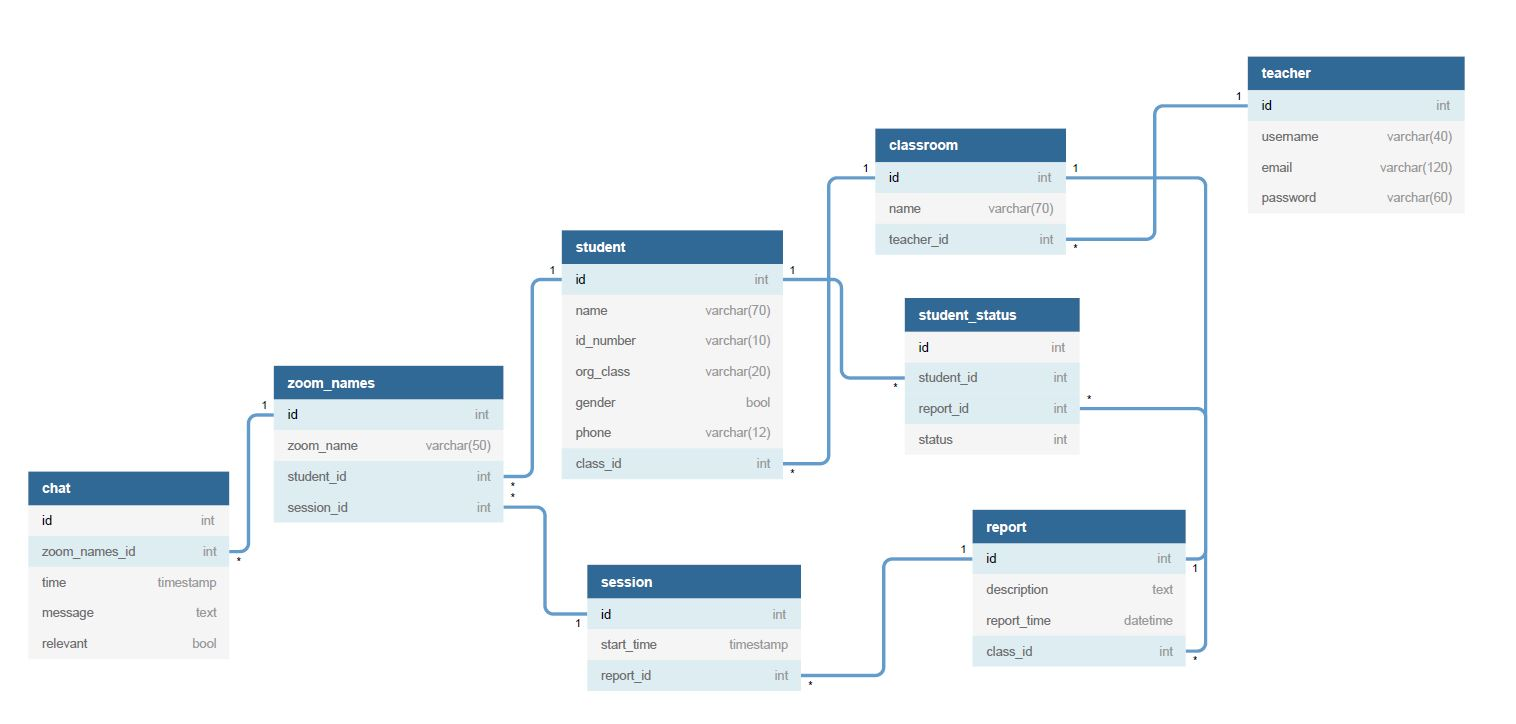
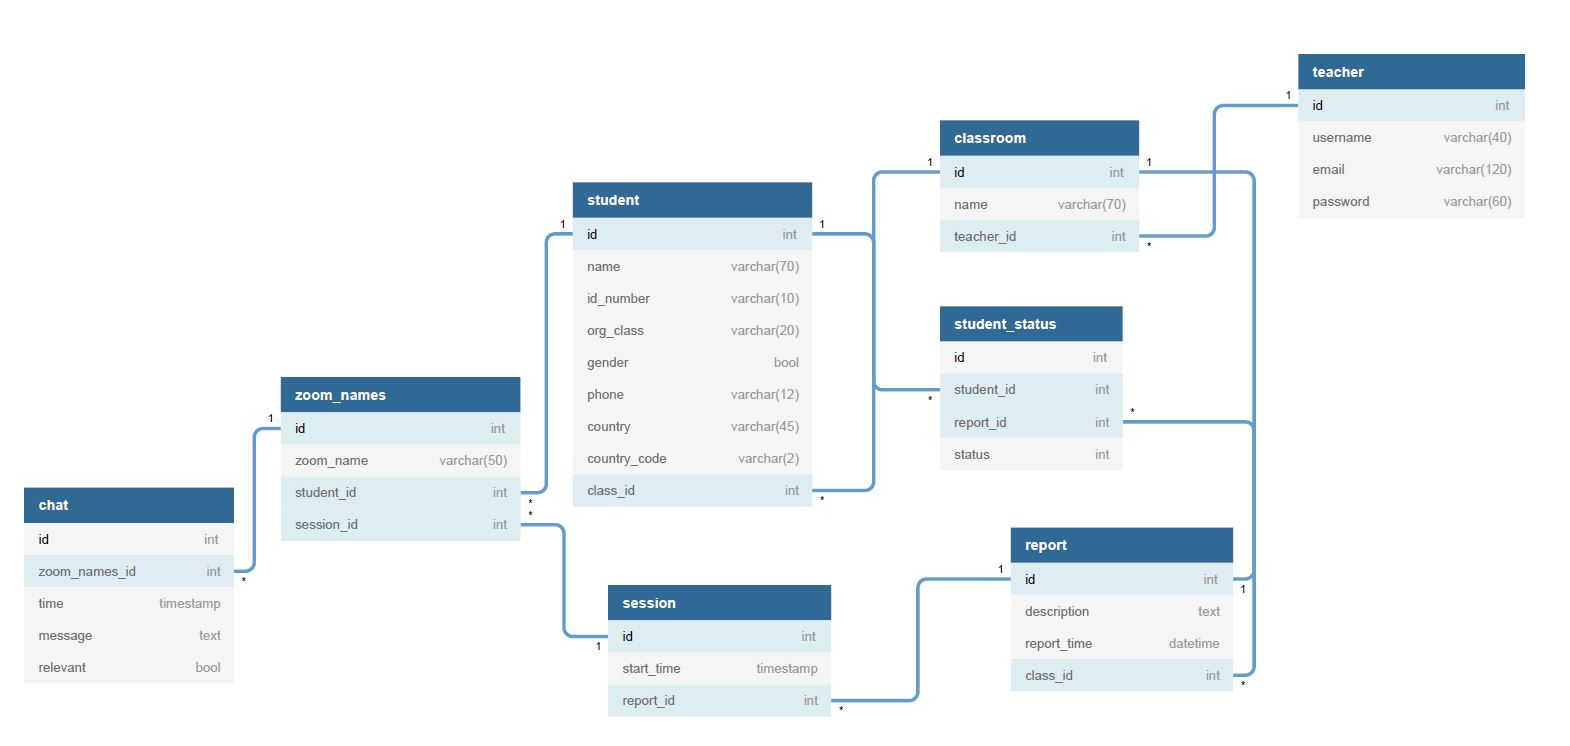
changed erd with new columns for student

diff --git a/server/server/api/reports.py b/server/server/api/reports.py
@@ -63,7 +63,10 @@ class ReportsResource(Resource):
         args = self._post_args.parse_args()
 
         students_df = pd.read_sql(StudentModel.query.filter_by(class_id=class_id).statement, con=db.engine)
-        report_object = Attendance(args['chat_file'], students_df, ['name', "id_number", "phone"], args['time_delta'], args['first_sentence'], args['not_included_zoom_users'])
+        report_object = Attendance(args['chat_file'], students_df,
+                                   ['name', "id_number", "phone", "country", "country_code"],
+                                   args['time_delta'], args['first_sentence'],
+                                   args['not_included_zoom_users'])  #TODO: should get "filters" from config
 
         new_report = ReportModel(description=args['description'], report_time=args["date"], class_id=class_id)
         db.session.add(new_report)
